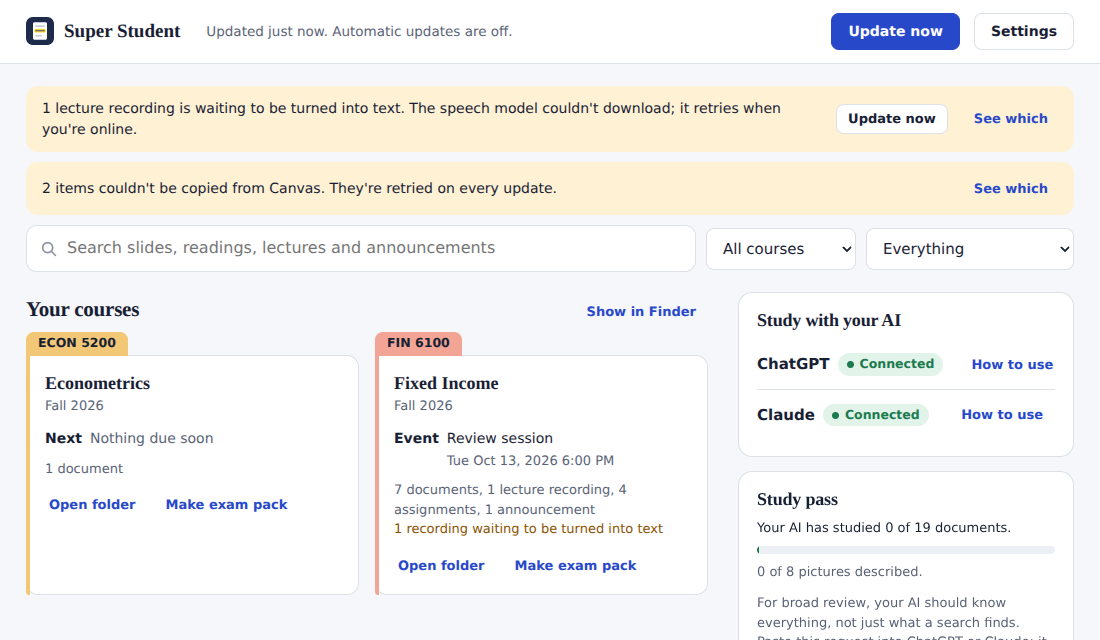
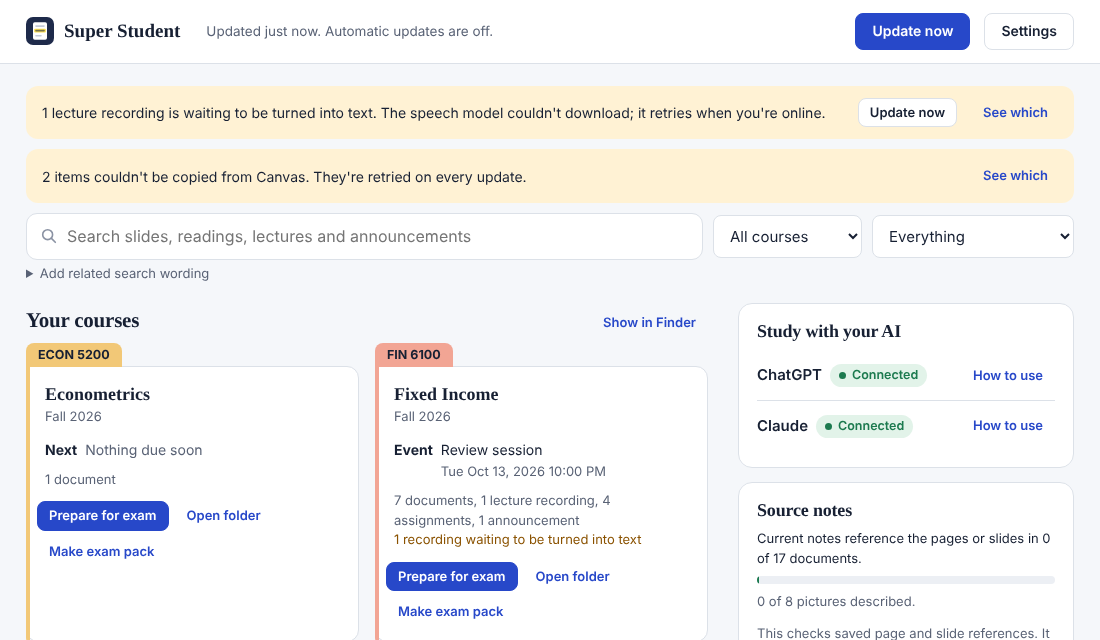
Website: match the page to 1.7.1 after review
- The study tip named the 1.6.0 "study pass"; 1.7.1 calls it Source notes
  (Copy the request) and adds Prepare for exam. Drop the claim that answers
  then cover the whole course, which 1.7.0 stopped making.
- Step 1 and the update FAQ: unzipping gives a folder; drag the app inside it.
- Retake the dashboard screenshot from the 1.7.1 app (it showed 1.6.0).

Claude-Session: https://claude.ai/code/session_01EQAQSbirPXqNpB58Dmv1T5

diff --git a/docs/index.html b/docs/index.html
@@ -325,7 +325,9 @@
         <div>
           <h3>Download and unzip</h3>
           <p><a href="https://github.com/Marc-Melone/super-student/raw/main/releases/SuperStudent-1.7.1-mac.zip">Download Super Student</a>.
-            Double-click the downloaded file to unzip it if your Mac didn't already, then drag <b>Super Student</b> into your Applications folder.</p>
+            Double-click the downloaded file to unzip it if your Mac didn't already. That gives you a folder whose name
+            starts with <b>SuperStudent</b>. Open it and drag <b>Super Student</b> (the app inside, not the whole folder)
+            into your Applications folder.</p>
         </div>
       </li>
       <li>
@@ -382,9 +384,11 @@
       <li>Where did I lose points on my assignments, and what should I fix?</li>
       <li>What's due this week across all my classes?</li>
     </ul>
-    <p class="asks-after">Before a big exam, use the <b>study pass</b> from the Super Student window. Your AI reads
-      every document and looks at every picture, saving notes as it goes, so its answers cover the whole
-      course and not only what a search turned up.</p>
+    <p class="asks-after">Before a big review, click <b>Copy the request</b> in the <b>Source notes</b> box of the
+      Super Student window and paste it into Claude or ChatGPT. Your AI works through each document, looks at the
+      pictures and saves notes that point to the page or slide. A full semester takes a few sessions. To test
+      yourself, click <b>Prepare for exam</b> on a course: your AI writes practice questions with their sources,
+      and you answer them in the Super Student window.</p>
   </div>
 </section>
 
@@ -448,8 +452,9 @@
     </details>
     <details>
       <summary>How do I update to a new version?</summary>
-      <div><p>Download the new version from this page, drag it into Applications to replace the old one, and open it.
-        It updates itself, then reminds you to quit and reopen Claude or ChatGPT.</p></div>
+      <div><p>Download the new version from this page and unzip it. Open the folder it makes, drag <b>Super Student</b>
+        into Applications and choose <b>Replace</b>, then open it. It updates itself, then reminds you to quit and
+        reopen Claude or ChatGPT.</p></div>
     </details>
     <details>
       <summary>How do I remove it?</summary>

diff --git a/README.md b/README.md
@@ -21,7 +21,7 @@ its own, converts it into searchable text with exact page, slide and timestamp m
 originals so the AI can look at the real slide when a chart or formula matters, and connects it all to
 the assistant you use. One library and one sync serve both.
 
-![The Super Student dashboard: your courses, what's due, search, and the study pass](docs/screenshots/dashboard.png)
+![The Super Student dashboard: your courses, what's due, search, and source notes](docs/screenshots/dashboard.png)
 
 **New here? The [Super Student website](https://marc-melone.github.io/super-student/) explains it in plain language.**
 
